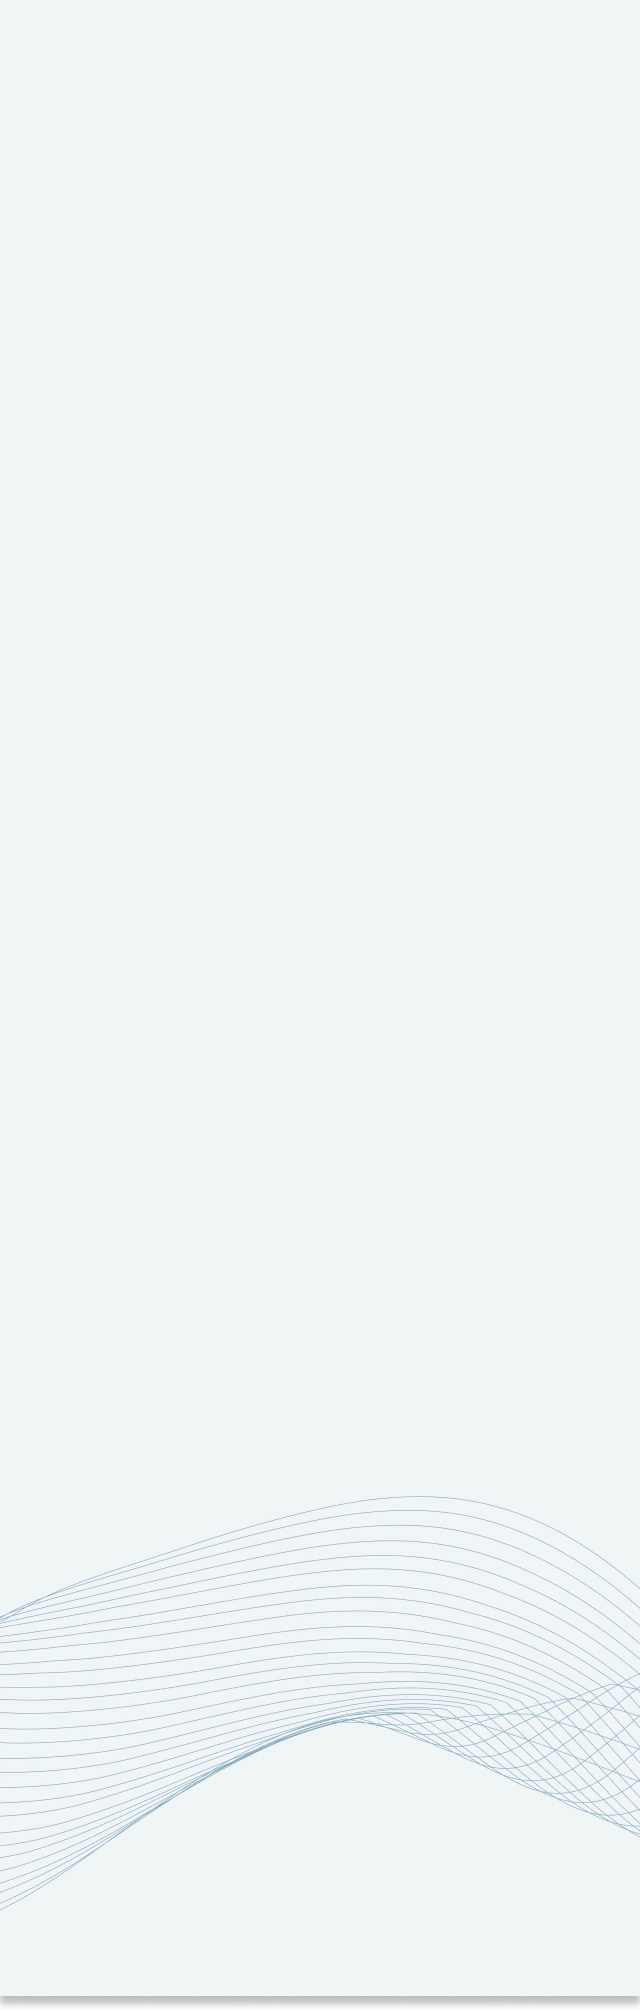
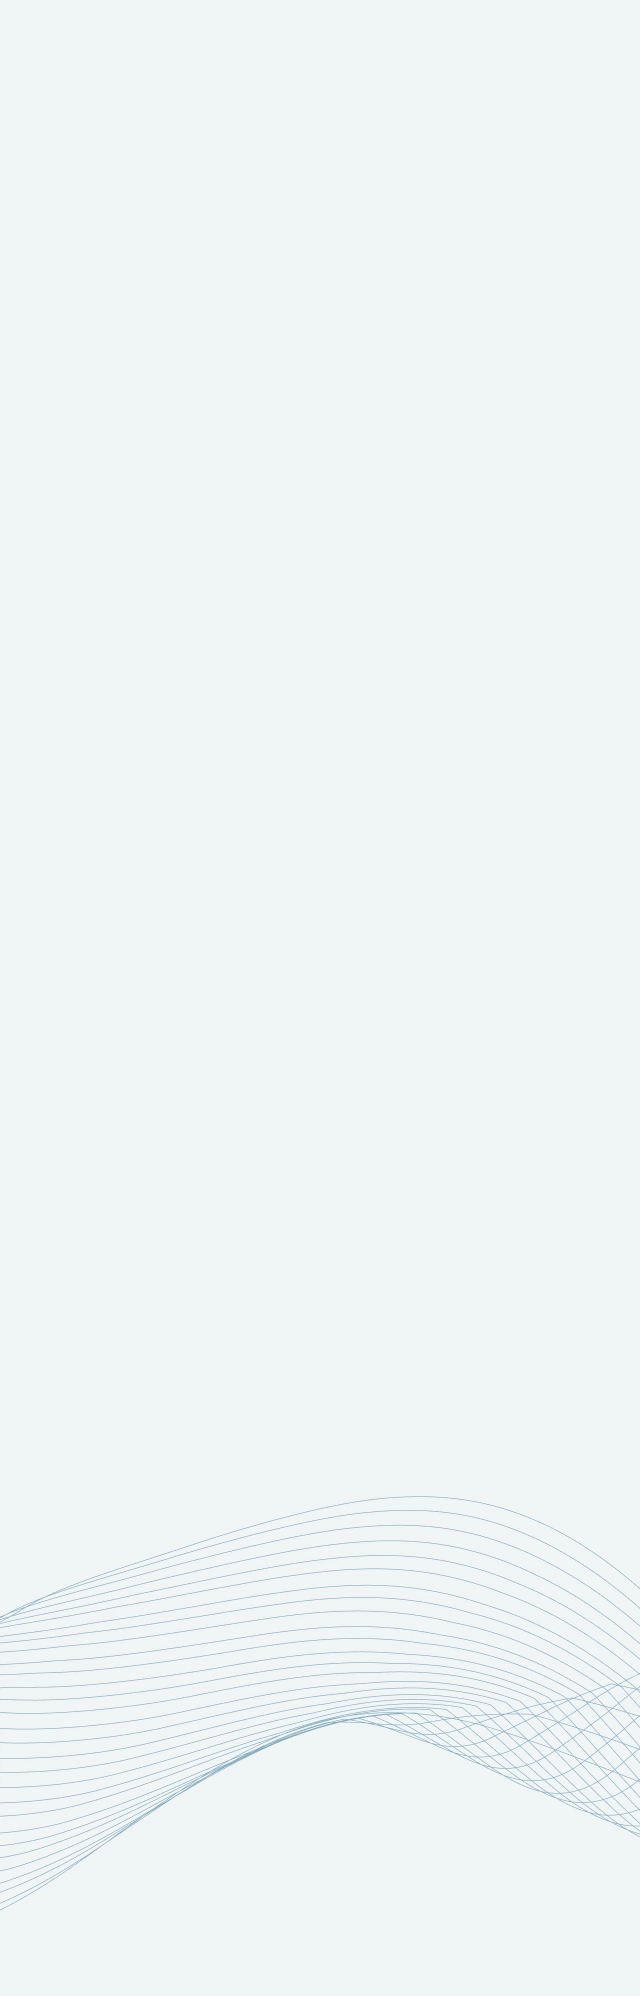
Update background from online services

Changed region(s): [[0.0, 0.7455, 1.0, 0.9629], [0.0, 0.994, 1.0, 1.0]]

diff --git a/src/public/wp-content/themes/app/html/app/css/blocks/home/home-section.scss b/src/public/wp-content/themes/app/html/app/css/blocks/home/home-section.scss
@@ -72,6 +72,8 @@
       }
     }
     @include mobile {
+      filter: drop-shadow(0px 4px 4px rgba(0, 0, 0, 0.25));
+
       .home-section__inner {
         padding-top: 52px;
       }
@@ -118,6 +120,10 @@
 
   &__background-top {
     z-index: -1;
+    @include mobile {
+      max-width: 320px;
+      margin: 0 auto;
+    }
   }
 
   &__inner {
